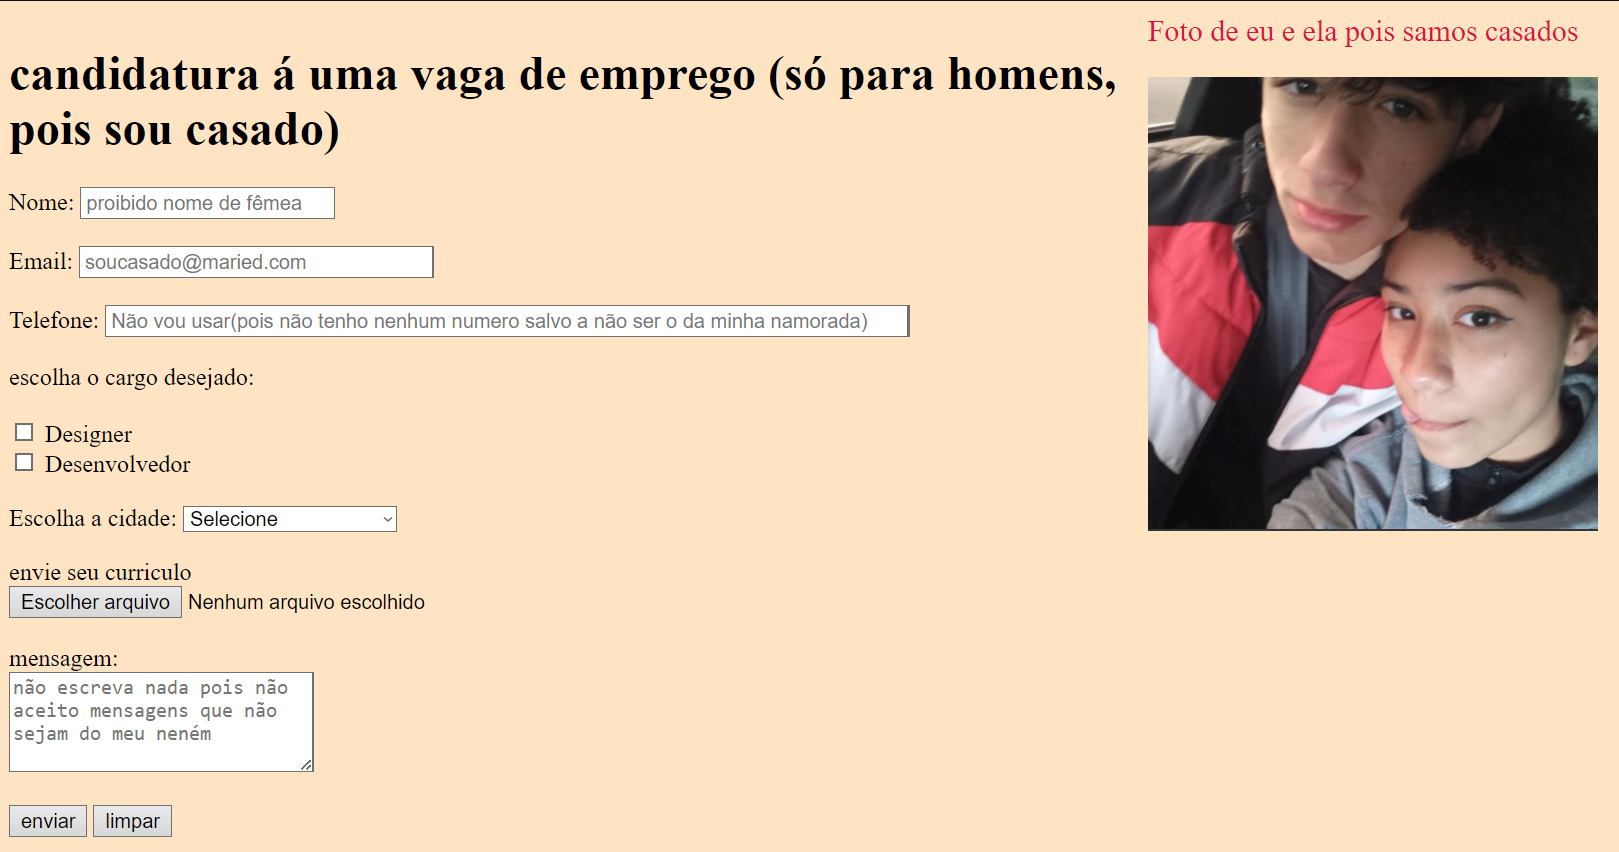
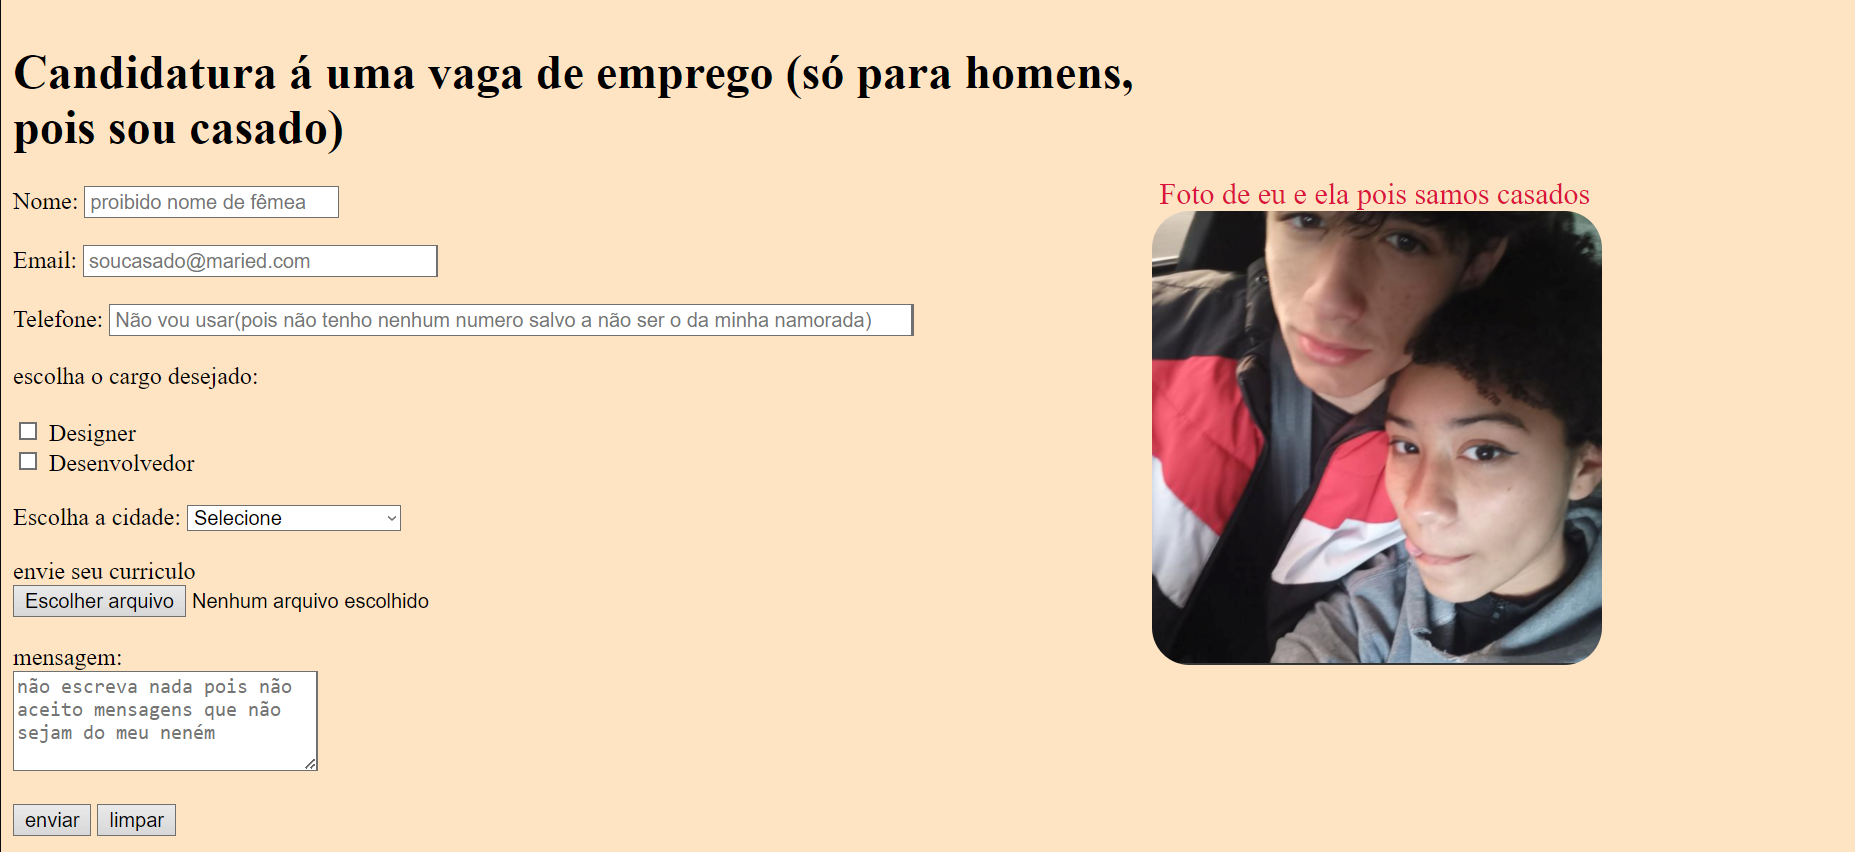
splited

diff --git a/index.html b/index.html
@@ -4,36 +4,13 @@
     <meta charset="UTF-8">
     <meta name="viewport" content="width=device-width, initial-scale=1.0">
     <title>Eu namoro</title>
-    <style>
-
-        main{
-            display: flex;
-            justify-content: center;
-        }
-
-        body{
-            background-color: bisque;
-        }
-
-        img{    
-            width: 300px;
-            padding-top: 20px;
-        }
-
-        #frase{
-            font-size: 20px;
-            padding-top: 75px;
-            border-top: 70px;
-            color: crimson;
-        }
-
-    </style>
+    <link rel="stylesheet" href="style.css">
             
 </head>
 <body>
     <main>
         <form>
-            <h1>candidatura á uma vaga de emprego (só para homens, pois sou casado)</h1>
+            <h1>Candidatura á uma vaga de emprego (só para homens, pois sou casado)</h1>
             
             <label for="Nome">Nome:</label>
             <input type="text" id="Nome" placeholder="proibido nome de fêmea"><br><br>
@@ -75,20 +52,6 @@
         </div>
     </main>
 
-
-    <!--JAVASCRIPT-->
-    <script>
-        const checkboxes = document.querySelectorAll('.exclusive-checkbox');
-
-        checkboxes.forEach(checkbox => {
-            checkbox.addEventListener('change', () => {
-                checkboxes.forEach(otherCheckbox => {
-                if (otherCheckbox !== checkbox) {
-                    otherCheckbox.checked = false;
-                }
-                });
-            });
-        });
-    </script>
+    <script src="script.js"></script>
 </body>
 </html>

diff --git a/script.js b/script.js
@@ -1,0 +1,11 @@
+const checkboxes = document.querySelectorAll('.exclusive-checkbox');
+
+    checkboxes.forEach(checkbox => {
+        checkbox.addEventListener('change', () => {                
+            checkboxes.forEach(otherCheckbox => {
+            if (otherCheckbox !== checkbox) {
+                otherCheckbox.checked = false;
+            }
+        });
+    });
+});

diff --git a/style.css b/style.css
@@ -1,0 +1,24 @@
+
+main{
+    display: flex;
+    justify-content: center;
+    align-items: center;
+}
+
+body{
+    background-color: bisque;
+}
+
+img{    
+    width: 300px;
+
+    border-radius: 25px;
+}
+
+#frase{
+    font-size: 20px;
+    padding-top: 75px;
+    border-top: 70px;
+    padding-left: 5px;
+    color: crimson;
+}
